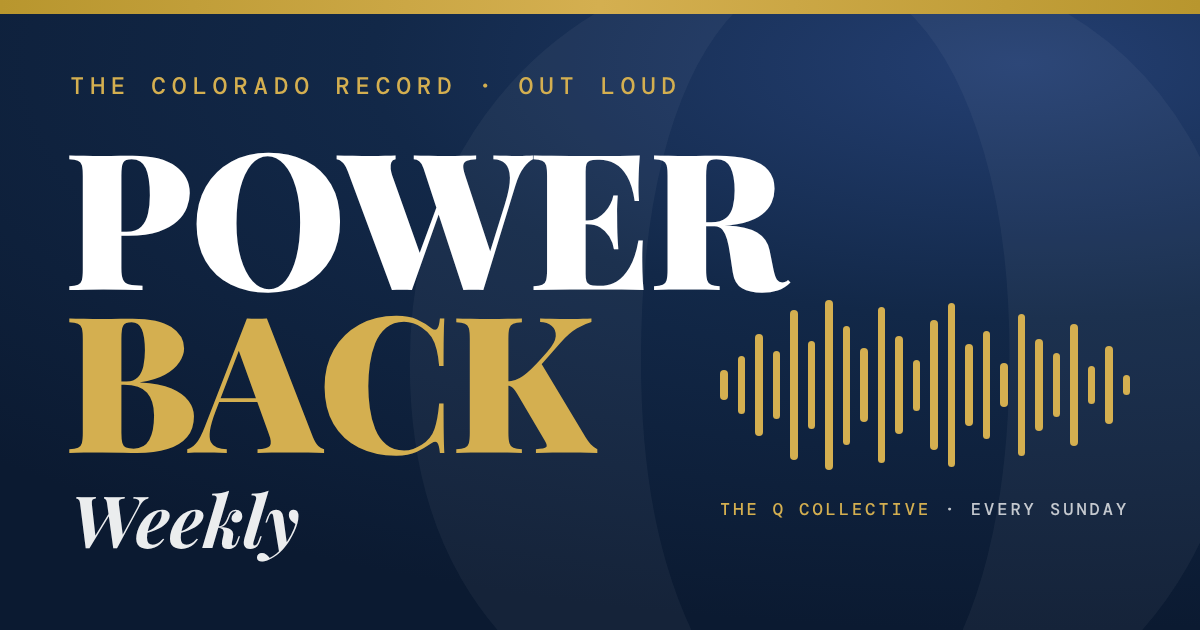
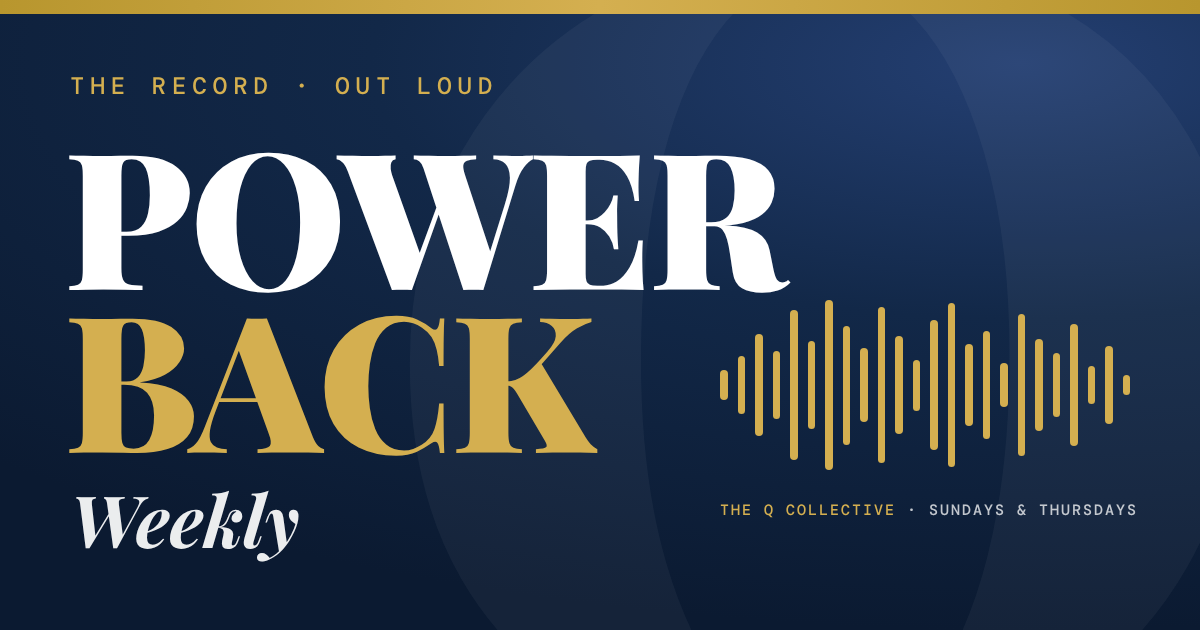
Power Back Weekly: new-episode emails, Be on the show (verified officials too), host section, Special Session / On the Record, 'the record' wording, new covers (Thursday art with Mav)
Claude-Session: https://claude.ai/code/session_016FBJNgCqkbCf93CrN5q3VF

Changed region(s): [[0.5858, 0.7841, 0.9558, 0.8143], [0.2158, 0.1206, 0.5858, 0.1508], [0.1233, 0.1206, 0.185, 0.1508]]

diff --git a/podcast.html b/podcast.html
@@ -1,11 +1,11 @@
 <!DOCTYPE html><html lang="en"><head>
 <meta charset="UTF-8"><meta name="viewport" content="width=device-width,initial-scale=1.0">
 <title>Power Back Weekly: the podcast | The Q Collective</title>
-<meta name="description" content="Power Back Weekly: the Colorado record, read out loud. What your lawmakers did this week, from the public record, in plain English. Free every Sunday from The Q Collective.">
+<meta name="description" content="Power Back Weekly: the record, read out loud. What your lawmakers did this week, from the public record, in plain English. Free every Sunday and Thursday from The Q Collective.">
 <meta property="og:type" content="website">
 <meta property="og:site_name" content="The Q Collective">
-<meta property="og:title" content="Power Back Weekly: the Colorado record, out loud">
-<meta property="og:description" content="What your lawmakers did this week, from the public record, in plain English. Free every Sunday.">
+<meta property="og:title" content="Power Back Weekly: the record, out loud">
+<meta property="og:description" content="What your lawmakers did this week, from the public record, in plain English. Free every Sunday and Thursday.">
 <meta property="og:url" content="https://theqcollective.org/podcast.html">
 <meta property="og:image" content="https://theqcollective.org/og/podcast.png">
 <meta property="og:image:width" content="1200">
@@ -65,6 +65,16 @@
   .mail{background:var(--navy-deep);color:#fff;border-radius:14px;padding:30px;display:flex;justify-content:space-between;align-items:center;gap:20px;flex-wrap:wrap;margin-top:56px}
   .mail h3{font-family:'Playfair Display',serif;font-size:26px;margin:0 0 4px}.mail p{margin:0;color:rgba(255,255,255,.75)}
   .copied{font-size:13px;color:var(--gold-light);margin-left:6px}
+  .host{display:grid;grid-template-columns:320px 1fr;gap:28px;align-items:center}.host img{width:100%;height:auto;border-radius:14px;display:block}.host h2{margin:2px 0 8px}.host p{margin:0;color:#333;line-height:1.6}
+  .gform{background:#fff;border:1px solid var(--border);border-radius:14px;padding:24px;display:grid;gap:14px;margin-top:16px}
+  .gform label{display:grid;gap:6px;font-weight:600;color:var(--navy-deep);font-size:15px}.gform small{font-weight:400;color:#666}
+  .gform input,.gform select,.gform textarea{font:inherit;font-weight:400;padding:11px 12px;border:1px solid var(--border);border-radius:10px;background:#fff;color:#111;width:100%;box-sizing:border-box}
+  .g2{display:grid;grid-template-columns:1fr 1fr;gap:14px}.hp{position:absolute;left:-9999px;width:1px;height:1px;opacity:0}
+  .gmsg{margin:0;font-weight:600;color:var(--navy-deep)}
+  .alerts{display:grid;grid-template-columns:1fr 1fr;gap:28px;align-items:center}.alerts .gform{margin-top:0}
+  .gform label.chk{display:flex;gap:10px;align-items:flex-start;font-weight:400;color:#333}.gform label.chk input{width:20px;height:20px;flex:none;margin-top:2px}
+  .offbox{max-width:560px;margin:0 auto 30px;background:#fff;border:1px solid var(--border);border-radius:14px;padding:24px;text-align:center}.gnote{margin:0;color:#555;font-size:14px}
+  @media(max-width:820px){.host,.alerts{grid-template-columns:1fr}.g2{grid-template-columns:1fr}.gform{padding:18px}}
   @media(max-width:820px){.pb-grid{grid-template-columns:1fr;gap:28px}.pb-cover{max-width:260px}.how{grid-template-columns:1fr}.pb-hero{padding:48px 18px}main{padding:36px 16px 56px}}
 </style>
 </head><body>
@@ -75,9 +85,11 @@
   <div>
     <div class="eyebrow">The Q Collective · Podcast</div>
     <h1>Power <span>Back</span> Weekly</h1>
-    <p class="pb-sub">The Colorado record, read out loud. Every Sunday: the bills that moved, the votes that counted, and whose Q Score changed and why. Straight from the public record, in plain English, in about ten minutes. Bonus episodes when something big moves.</p>
+    <p class="pb-sub">The record, read out loud. <b>Sundays:</b> the bills that moved, the votes that counted, and whose Q Score changed and why, straight from the public record in about ten minutes. <b>Thursdays:</b> our founder, in his own voice, on what it means and what you can do. Plus <b>Special Session</b> episodes when something big moves, and <b>On the Record</b> conversations with guests.</p>
     <div class="subs" id="follow">
       <a class="sbtn gold" href="#episodes">&#9654; Listen now</a>
+      <a class="sbtn" href="#alerts">Email me new episodes</a>
+      <a class="sbtn" href="#be-on-the-show">Be on the show</a>
     </div>
     <p class="soon" id="soon">Coming to Apple Podcasts, Spotify and YouTube. Until then, listen right here or follow the feed in any podcast app.</p>
   </div>
@@ -94,10 +106,45 @@
     <h2>How each episode is made</h2>
     <p class="lede">We'd rather tell you than have you wonder.</p>
     <div class="how">
-      <div><b>A real person opens it</b><p>Every episode starts with our founder, maveriQ B Jackson, in his own voice.</p></div>
-      <div><b>The record does the talking</b><p>The rest is read by an AI voice, word for word from our published data: Q Scores, bill histories and votes. No opinions on candidates or parties.</p></div>
+      <div><b>Sundays: the record does the talking</b><p>Our founder opens it; the rest is read by an AI voice, word for word from our published data: Q Scores, bill histories and votes. No opinions on candidates or parties.</p></div>
+      <div><b>Thursdays: a real person, all the way</b><p>maveriQ B Jackson, in his own voice, on what the week means. Never AI.</p></div>
       <div><b>Nothing to track you</b><p>The show lives on our own site. No ads, no ad network, and we don't follow who listens.</p></div>
     </div>
+  </section>
+
+  <section class="sec alerts" id="alerts">
+    <div><div class="eyebrow">Never miss one</div><h2>Get every new episode by email</h2>
+      <p class="lede">More than one a week: Sunday's record, Thursday with Mav, Special Session episodes when something big moves, and On the Record conversations with guests. One short email each time, with the link. Unsubscribe in one click.</p></div>
+    <form id="epForm" class="gform" novalidate>
+      <label>Your email<input name="email" type="email" required maxlength="254" autocomplete="email" placeholder="you@email.com"></label>
+      <label class="chk"><input type="checkbox" name="sunday" checked> Also send me the Sunday Update (the week's record, in writing)</label>
+      <input name="website" tabindex="-1" autocomplete="off" class="hp" aria-hidden="true">
+      <button class="sbtn gold" type="submit">Email me new episodes</button>
+      <p class="gmsg" id="epMsg" role="status"></p>
+    </form>
+  </section>
+
+  <section class="sec host">
+    <img src="founder.jpg" alt="maveriQ B Jackson with his dog in the Colorado foothills" width="1200" height="800" loading="lazy">
+    <div><div class="eyebrow">Your host</div><h2>maveriQ B Jackson</h2>
+      <p>Founder of The Q Collective. Six years as a project coordinator on federal work for the Department of Justice, the IRS, the White House and the U.S. Senate, and a 2026 candidate for the Colorado House. Now he reads the record so you don't have to. <a href="founder.html">More about Mav &rarr;</a></p></div>
+  </section>
+
+  <section class="sec guest" id="be-on-the-show">
+    <h2>Be on the show</h2>
+    <p class="lede">Lawmakers, candidates, advocates, experts and everyday Coloradans: tell us what you'd like to say. Any party, any side. We look for balance, and we read every request.</p>
+    <form id="guestForm" class="gform" novalidate>
+      <div class="g2"><label>Your name<input name="name" required maxlength="120" autocomplete="name"></label><label>Email<input name="email" type="email" required maxlength="200" autocomplete="email"></label></div>
+      <div class="g2"><label>You are
+        <select name="role" required><option value="legislator">A Colorado legislator</option><option value="official">Another elected official</option><option value="candidate">A candidate</option><option value="advocate">With an advocacy group or nonprofit</option><option value="expert">An expert or researcher</option><option value="resident" selected>A Colorado resident</option><option value="other">Something else</option></select></label>
+        <label>District, office or organization <small>(optional)</small><input name="affiliation" maxlength="160"></label></div>
+      <label>What would you like to talk about?<input name="topic" required maxlength="300" placeholder="A bill, a vote, an issue in your community&hellip;"></label>
+      <label>Anything else we should know? <small>(optional)</small><textarea name="why" rows="4" maxlength="2000"></textarea></label>
+      <input name="website" tabindex="-1" autocomplete="off" class="hp" aria-hidden="true">
+      <button class="sbtn gold" type="submit">Send my request</button>
+      <p class="gmsg" id="guestMsg" role="status"></p>
+      <p class="gnote">We reply to every request, usually within a week. Being a guest never changes anyone's Q Score: scores come from the public record only. Elected officials: <a href="account.html">verify your account</a> and your request shows up as verified.</p>
+    </form>
   </section>
 
   <div class="mail"><div><h3>Rather read it?</h3><p>The Sunday Update is the same week in your inbox, with every link. Free.</p></div><a class="sbtn gold" href="sunday.html">Get the Sunday Update</a></div>
@@ -110,7 +157,7 @@
   var FEED='https://theqcollective.org/podcast/feed.xml';
   function mins(s){s=s||0;var m=Math.max(1,Math.round(s/60));return m+' min';}
   function day(d){try{return new Date(d+'T12:00:00').toLocaleDateString('en-US',{month:'long',day:'numeric',year:'numeric'});}catch(e){return d;}}
-  var KIND={weekly:'Sunday recap',thursday:'Thursday with Mav',bonus:'Bonus',trailer:'Trailer'};
+  var KIND={weekly:'Sunday recap',thursday:'Thursday with Mav',bonus:'Special Session',guest:'On the Record',trailer:'Trailer'};
   fetch('podcast/episodes.json',{cache:'no-cache'}).then(function(r){return r.json();}).then(function(d){
     var L=d.links||{}, subs=document.getElementById("follow"), any=false;
     [['apple','Apple Podcasts'],['spotify','Spotify'],['youtube','YouTube']].forEach(function(x){ if(L[x[0]]){ any=true; subs.insertAdjacentHTML('beforeend','<a class="sbtn" href="'+esc(L[x[0]])+'" target="_blank" rel="noopener">'+x[1]+'</a>'); } });
@@ -125,6 +172,51 @@
     }).join('');
     if(location.hash){var t=document.getElementById(location.hash.slice(1)); if(t) t.scrollIntoView();}
   }).catch(function(){});
+})();
+</script>
+<script src="q-auth.js"></script>
+<script>
+/* Email me new episodes (and optionally the Sunday Update). Same list rules as the Sunday Update. */
+(function(){
+  var f=document.getElementById('epForm'), m=document.getElementById('epMsg'); if(!f) return;
+  f.addEventListener('submit',function(e){
+    e.preventDefault(); if(f.website.value) return;
+    var em=f.email.value.trim(); if(!/^[^@\s]+@[^@\s]+\.[^@\s]+$/.test(em)){m.textContent='Please enter a valid email.';return;}
+    m.textContent='Signing you up\u2026'; f.querySelector('button').disabled=true;
+    window.qcReady.then(function(qc){ if(!qc) throw 0; return qc.rpc('subscribe_episodes',{e:em,also_sunday:!!f.sunday.checked}); })
+      .then(function(r){ if(r&&r.error) throw r.error; var v=r&&r.data;
+        if(v==='invalid'){m.textContent='Please check your email address.';f.querySelector('button').disabled=false;return;}
+        m.textContent=v==='confirm'?'Almost there: check your inbox and tap the link to confirm.':'You\u2019re in. You\u2019ll get an email every time a new episode comes out.'; f.email.disabled=true; })
+      .catch(function(){ m.textContent='That didn\u2019t go through. Please try again.'; f.querySelector('button').disabled=false; });
+  });
+  // Turning episode emails off: nothing happens until a person presses the button (email scanners open links).
+  var q=new URLSearchParams(location.search);
+  if(q.get('do')==='episodes-off'&&q.get('token')){
+    var box=document.createElement('div'); box.className='offbox';
+    box.innerHTML='<h2 style="margin:0 0 8px">Stop new-episode emails?</h2><p>You\u2019ll stop getting an email each time Power Back Weekly has a new episode.</p><button class="sbtn gold" type="button">Yes, stop them</button><p class="gmsg"></p>';
+    document.querySelector('main').prepend(box);
+    box.querySelector('button').onclick=function(){ var b=this, msg=box.querySelector('.gmsg'); b.disabled=true;
+      window.qcReady.then(function(qc){ return qc.rpc('episodes_off',{t:q.get('token')}); }).then(function(r){ var v=r&&r.data;
+        msg.textContent=v==='ok'?'Done. No more new-episode emails. You can sign up again any time on this page.':'That link is no longer valid.'; })
+      .catch(function(){ msg.textContent='Something went wrong. Please try again.'; b.disabled=false; }); };
+    box.scrollIntoView();
+  }
+})();
+/* Be on the show: requests go straight to The Q Collective (nobody else can read them). */
+(function(){
+  var f=document.getElementById('guestForm'), m=document.getElementById('guestMsg'); if(!f) return;
+  f.addEventListener('submit',function(e){
+    e.preventDefault(); if(f.website.value) return;
+    var v={name:f.name.value.trim(),email:f.email.value.trim(),role:f.role.value,affiliation:f.affiliation.value.trim()||null,topic:f.topic.value.trim(),why:f.why.value.trim()||null};
+    if(v.name.length<2){m.textContent='Please add your name.';return;}
+    if(!/^[^@\s]+@[^@\s]+\.[^@\s]+$/.test(v.email)){m.textContent='Please check your email address.';return;}
+    if(v.topic.length<5){m.textContent='Tell us a little about what you want to talk about.';return;}
+    m.textContent='Sending\u2026'; f.querySelector('button').disabled=true;
+    window.qcReady.then(function(qc){ if(!qc) throw new Error('offline'); return qc.from('podcast_requests').insert(v); })
+      .then(function(r){ if(r&&r.error) throw r.error; f.reset(); m.textContent='Thank you. We got it, and we\u2019ll be in touch.'; })
+      .catch(function(){ m.textContent='That didn\u2019t go through. Please try again, or email team@theqcollective.org.'; })
+      .then(function(){ f.querySelector('button').disabled=false; });
+  });
 })();
 </script>
 <script src="q-config.js"></script><script src="q-chat.js"></script>

diff --git a/account.html b/account.html
@@ -579,6 +579,15 @@
       <div class="acct-note">Responses are reviewed before publishing, and they <b>do not affect your Q Score</b> &mdash; scores are calculated from the public record only.</div>
     </div>
 
+    <div id="pbwCard" class="acct-card" style="display:none">
+      <h3>Be on Power Back Weekly</h3>
+      <p>Want to say it in your own voice? Ask to come on our podcast. Your request comes to us marked as a verified official. Being on the show never changes a Q Score. <a href="podcast.html">About the show &rarr;</a></p>
+      <input id="pbwTopic" class="acct-input" maxlength="300" placeholder="What would you like to talk about?">
+      <textarea id="pbwWhy" class="acct-ta" maxlength="2000" placeholder="Anything else we should know (optional)"></textarea>
+      <button id="pbwBtn" class="acct-btn">Request to be on the show</button>
+      <p id="pbwMsg" class="acct-msg"></p>
+    </div>
+
     <div id="subsCard" class="acct-card" style="display:none">
       <h3>Your submissions</h3>
       <div id="subsList"></div>
@@ -665,6 +674,7 @@ var tries=0;(function wait(){if(!window.qAuth)return;qAuth.user().then(function(
           if(PROF.official_status==='verified'){
             box.innerHTML='<div class="ok-box">\u2713 <b>Verified official.</b> You can respond to your record below.</div>';
             document.getElementById('respondCard').style.display='block';
+            document.getElementById('pbwCard').style.display='block';
             fetch('data/CO_bills.json').then(function(r){return r.json();}).then(function(d){
               var bl=(d&&(d.bills||d))||[]; var arr=Array.isArray(bl)?bl:Object.keys(bl).map(function(k){return bl[k];});
               document.getElementById('billList').innerHTML=arr.slice(0,400).map(function(x){return '<option value="'+esc(x.number||'')+'">'+esc(String(x.title||'').slice(0,60))+'</option>';}).join('');
@@ -694,6 +704,16 @@ var tries=0;(function wait(){if(!window.qAuth)return;qAuth.user().then(function(
     });
     document.getElementById('acctOutBtn').addEventListener('click',function(){qc.auth.signOut();});
 
+    document.getElementById('pbwBtn').addEventListener('click',function(){
+      var m=document.getElementById('pbwMsg'), topic=(document.getElementById('pbwTopic').value||'').trim(), why=(document.getElementById('pbwWhy').value||'').trim();
+      if(topic.length<5){m.textContent='Tell us a little about what you want to talk about.';return;}
+      if(!PROF||PROF.official_status!=='verified'){m.textContent='Your account is not verified yet.';return;}
+      var nm=(ME.user_metadata&&ME.user_metadata.claimed_person_name)||(ME.email||'').split('@')[0];
+      m.textContent='Sending\u2026';
+      qc.from('podcast_requests').insert({name:nm,email:ME.email,role:'legislator',affiliation:null,topic:topic,why:why||null,user_id:ME.id,person_id:String(PROF.claimed_person_id||''),verified:true})
+        .then(function(res){ if(res&&res.error){m.textContent='Error: '+res.error.message;return;} m.textContent='Sent. We\u2019ll be in touch to set a time.'; document.getElementById('pbwTopic').value=''; document.getElementById('pbwWhy').value=''; })
+        .catch(function(){m.textContent='Something went wrong. Please try again.';});
+    });
     document.getElementById('respBtn').addEventListener('click',function(){
       var m=document.getElementById('respMsg'); var kind=document.getElementById('respKind').value;
       var body=(document.getElementById('respBody').value||'').trim();

diff --git a/site-chrome.js b/site-chrome.js
@@ -75,7 +75,7 @@
       '@media(prefers-reduced-motion:reduce){.q-pod-track{animation:none;display:block;text-align:center;white-space:normal;padding:10px 14px}.q-pod-item:not(:first-child){display:none}.q-pod-dot{animation:none}}'+
       '@media(max-width:600px){.q-pod{font-size:11.5px;letter-spacing:1.2px}}';
     document.head.appendChild(css);
-    var one='<span class="q-pod-item"><span class="q-pod-dot" aria-hidden="true"></span><b>New podcast</b> Power Back Weekly &middot; the Colorado record, read out loud every Sunday &middot; <u>Listen now &rarr;</u></span>';
+    var one='<span class="q-pod-item"><span class="q-pod-dot" aria-hidden="true"></span><b>New podcast</b> Power Back Weekly &middot; the record, read out loud every Sunday and Thursday &middot; <u>Listen now &rarr;</u></span>';
     var a=document.createElement('a'); a.className='q-pod'; a.href='podcast.html';
     a.setAttribute('aria-label','New podcast: Power Back Weekly. Listen now.');
     a.innerHTML='<span class="q-pod-track">'+one+one+one+one+one+one+'</span>';

diff --git a/podcast_lib.py b/podcast_lib.py
@@ -38,12 +38,14 @@ SHOW = {
     "language": "en-us",
     "category": ("Government", None),
     "category2": ("News", "Politics"),
-    "summary": ("The Colorado record, read out loud. Every Sunday, Power Back Weekly walks through what your "
+    "summary": ("The record, read out loud. Every Sunday, Power Back Weekly walks through what your "
                 "lawmakers actually did that week: the votes, the bills that moved, and whose record changed, "
-                "straight from the public record and in plain English. Bonus episodes drop when something big moves. "
+                "straight from the public record and in plain English. Every Thursday, founder maveriQ B Jackson, "
+                "in his own voice, on what it means and what you can do about it. Special Session episodes drop when "
+                "something big moves, and On the Record brings lawmakers and Coloradans on the show. "
                 "From The Q Collective, a nonpartisan, citizen-powered accountability project. "
-                "Each episode opens with founder maveriQ B Jackson in his own voice; the rest is read by an "
-                "AI voice from our published data, and every fact links back to the record at theqcollective.org."),
+                "Sunday episodes open with Mav and are read by an AI voice from our published data; "
+                "every fact links back to the record at theqcollective.org."),
     "page": f"{SITE}/podcast.html",
     "cover": f"{SITE}/podcast/cover.jpg",
 }
@@ -162,7 +164,7 @@ def build_feed(d):
       <pubDate>{format_datetime(when)}</pubDate>
       <enclosure url="{_x(SITE + '/' + e['audio'])}" length="{e['bytes']}" type="audio/mpeg"/>
       <itunes:duration>{dur // 60}:{dur % 60:02d}</itunes:duration>
-      <itunes:episodeType>{'trailer' if e['type'] == 'trailer' else 'bonus' if e['type'] == 'bonus' else 'full'}</itunes:episodeType>
+      <itunes:episodeType>{'trailer' if e['type'] == 'trailer' else 'bonus' if e['type'] == 'bonus' else 'full'}</itunes:episodeType>{chr(10) + '      <itunes:image href="' + _x(SITE + '/podcast/cover-thursday.jpg') + '"/>' if e['type'] in ('thursday', 'trailer') else ''}
       <itunes:explicit>false</itunes:explicit>
     </item>""")
     items.reverse()
@@ -223,7 +225,7 @@ def _paras(script):
 def post_html(e):
     short, long = _when(e)
     url = f"{SITE}/{NOTES_DIR}/pbw-{e['id']}.html"
-    kind = {"weekly": "Sunday recap", "thursday": "Thursday with Mav", "bonus": "Bonus episode", "trailer": "Trailer"}.get(e["type"], "Episode")
+    kind = {"weekly": "Sunday recap", "thursday": "Thursday with Mav", "bonus": "Special Session", "guest": "On the Record", "trailer": "Trailer"}.get(e["type"], "Episode")
     mins = max(1, round((e.get("seconds") or 60) / 60))
     return f"""<!DOCTYPE html><html lang="en"><head>
 <meta charset="UTF-8"><meta name="viewport" content="width=device-width,initial-scale=1.0">
@@ -316,3 +318,58 @@ def build_posts(d):
 if __name__ == "__main__":
     n = build_feed(load())
     print(f"feed rebuilt: {n} episodes")
+
+
+# --------------------------------------------------------------------------
+# New-episode emails. People who signed up on the podcast page ("email me every new episode")
+# get a short note each time one goes out. Needs SUPABASE_URL, SUPABASE_SERVICE_KEY, RESEND_API_KEY.
+# only_episode_only=True (Sunday episodes): skip people who already get the Sunday Update, which
+# has the same episode's Listen button in it.
+# --------------------------------------------------------------------------
+def email_new_episode(e, only_episode_only=False):
+    import urllib.parse
+    import urllib.request
+    url = (os.environ.get("SUPABASE_URL") or "").rstrip("/")
+    key = os.environ.get("SUPABASE_SERVICE_KEY") or ""
+    rk = os.environ.get("RESEND_API_KEY") or ""
+    if not (url and key and rk):
+        print("[episode-email] not set up (Supabase or Resend secret missing); skipped", flush=True)
+        return 0
+    q = "sunday_subscribers?confirmed=eq.true&unsubscribed=eq.false&episodes=eq.true&select=email,token"
+    if only_episode_only:
+        q += "&sunday=eq.false"
+    req = urllib.request.Request(url + "/rest/v1/" + q, headers={"apikey": key, "Authorization": "Bearer " + key, "User-Agent": "QCollective-podcast/1.0"})
+    try:
+        with urllib.request.urlopen(req, timeout=30) as r:
+            subs = json.loads(r.read())
+    except Exception as ex:
+        print(f"[episode-email] couldn't read the list: {ex}", flush=True)
+        return 0
+    if not subs:
+        return 0
+    kind = {"weekly": "Sunday recap", "thursday": "Thursday with Mav", "bonus": "Special Session", "guest": "On the Record", "trailer": "Trailer"}.get(e.get("type") or e.get("kind"), "New episode")
+    link = f"{SITE}/podcast.html#{e['id']}"
+    mins = max(1, round((e.get("seconds") or 0) / 60))
+    sender = os.environ.get("SEND_FROM") or "The Q Collective <noreply@auth.theqcollective.org>"
+    def one(s):
+        off = f"{SITE}/podcast.html?do=episodes-off&token={urllib.parse.quote(s['token'])}"
+        h = (f"<div style=\"background:#f4f1ea;padding:24px 12px;font-family:Georgia,serif\"><div style=\"max-width:560px;margin:0 auto;background:#fff;border-radius:12px;overflow:hidden;border:1px solid #e6dfcf\">"
+             f"<div style=\"background:#0b1a31;padding:22px 26px;color:#fff\"><div style=\"font:600 12px/1 monospace;letter-spacing:.18em;color:#D4AF50\">POWER BACK WEEKLY &middot; {html.escape(kind.upper())}</div>"
+             f"<div style=\"font:700 26px/1.25 Georgia,serif;margin-top:10px\">{html.escape(e['title'])}</div></div>"
+             f"<div style=\"padding:22px 26px;color:#222;font-size:16px;line-height:1.6\"><p style=\"margin:0 0 16px\">{html.escape(e.get('summary') or '')}</p>"
+             f"<p style=\"margin:0 0 18px\"><a href=\"{link}\" style=\"display:inline-block;background:#D4AF50;color:#0b1a31;text-decoration:none;font:700 16px Arial,sans-serif;padding:12px 20px;border-radius:8px\">&#9654; Listen ({mins} min)</a></p>"
+             f"<p style=\"margin:0;font-size:13px;color:#777;font-family:Arial,sans-serif\">You asked for an email every time Power Back Weekly has a new episode. <a href=\"{off}\" style=\"color:#777\">Stop these emails</a>.</p></div></div></div>")
+        t = f"{kind}: {e['title']}\n\n{e.get('summary') or ''}\n\nListen ({mins} min): {link}\n\nStop these emails: {off}\n"
+        return {"from": sender, "to": [s["email"]], "reply_to": "team@theqcollective.org", "subject": f"New on Power Back Weekly: {e['title']}", "html": h, "text": t,
+                "headers": {"List-Unsubscribe": f"<{off}>", "List-Unsubscribe-Post": "List-Unsubscribe=One-Click"}}
+    sent = 0
+    for i in range(0, len(subs), 100):
+        batch = [one(s) for s in subs[i:i + 100]]
+        r = urllib.request.Request("https://api.resend.com/emails/batch", method="POST", data=json.dumps(batch).encode(),
+                                   headers={"Authorization": "Bearer " + rk, "Content-Type": "application/json", "User-Agent": "QCollective-podcast/1.0"})
+        try:
+            urllib.request.urlopen(r, timeout=60).read(); sent += len(batch)
+        except Exception as ex:
+            print(f"[episode-email] batch failed: {ex}", flush=True)
+    print(f"[episode-email] {sent} sent for {e['id']}", flush=True)
+    return sent

diff --git a/send_sunday_update.py b/send_sunday_update.py
@@ -743,13 +743,22 @@ def send_confirmations():
     get a welcome. People the database is holding for confirmation get the
     confirmation email."""
     pending = sb("sunday_subscribers?confirm_sent=eq.false&unsubscribed=eq.false"
-                 "&select=id,email,token,confirmed") or []
+                 "&select=id,email,token,confirmed,sunday,episodes") or []
     if not isinstance(pending, list):
         log("couldn't read the subscriber list (is Supabase paused?)")
         return
     welcomed = confirms = 0
     for s in pending:
-        if s.get("confirmed"):
+        if s.get("confirmed") and s.get("sunday") is False:
+            # Signed up on the podcast page for new-episode emails only.
+            off = f"{SITE}/podcast.html?do=episodes-off&token={urllib.parse.quote(s['token'])}"
+            h = _shell(f"""<p>You're in. Every time Power Back Weekly has a new episode, we'll send you one short email with the link.</p>
+<p>Sundays: the week's record. Thursdays: our founder, in his own voice. Plus bonus episodes when something big moves.</p>
+<p><a href="{SITE}/podcast.html">Listen to the latest &rarr;</a></p>
+<p style="font-size:13px;color:#777">Changed your mind? <a href="{off}" style="color:#777">Stop these emails</a>.</p>""")
+            t = f"You're in. Every time Power Back Weekly has a new episode, we'll email you the link.\n\nListen: {SITE}/podcast.html\n\nStop these emails: {off}\n"
+            ok = send_email(s["email"], "You're on the list for Power Back Weekly", h, t)
+        elif s.get("confirmed"):
             h, t = welcome_email(s["token"])
             ok = send_email(s["email"], WELCOME_SUBJECT, h, t, token=s["token"])
         else:
@@ -832,7 +841,7 @@ def run_recap(test=False):
         log(f"test recap to {TEST_TO}: {'sent' if ok else 'FAILED'}")
         return ok
 
-    subs = sb("sunday_subscribers?confirmed=eq.true&unsubscribed=eq.false&select=email,token") or []
+    subs = sb("sunday_subscribers?confirmed=eq.true&unsubscribed=eq.false&sunday=eq.true&select=email,token") or []
     if not isinstance(subs, list):
         log("couldn't read the subscriber list; recap NOT sent, state NOT saved.")
         return False
@@ -870,6 +879,9 @@ def run_recap(test=False):
                 script=audio_script(shown, sections))
             podcast_lib.save(pod)
             log("podcast: this week's episode is in the Power Back Weekly feed.")
+            ep = next((x for x in pod["episodes"] if x["id"] == f"weekly-{shown.isoformat()}"), None)
+            if ep:
+                podcast_lib.email_new_episode(ep, only_episode_only=True)  # Sunday Update readers already have it
         except Exception as e:
             log(f"podcast: couldn't add this week's episode ({e}); the email still went out.")
     if read_note() and sent:

diff --git a/podcast_bonus.py b/podcast_bonus.py
@@ -39,7 +39,7 @@ DRAFTS = os.path.join(podcast_lib.DIR, "drafts")
 EPDIR = os.path.join(podcast_lib.DIR, "episodes")
 
 TRAILER = (
-    "Power Back Weekly is the Colorado record, read out loud. "
+    "Power Back Weekly is the record, read out loud. "
     "Every Sunday we walk through what your lawmakers actually did that week: the bills that moved, the votes that counted, "
     "and whose Q Score went up or down, and why. No spin and no sides. Just the public record, in plain English, in about ten minutes. "
     "When something big moves in between, like a bill heading to the governor or a change in the law that touches your paycheck, "
@@ -198,6 +198,7 @@ def publish():
                             summary=meta["summary"], audio_path=final, script=meta.get("script", ""))
     podcast_lib.save(pod)
     log(f"published {meta['id']} to the feed")
+    podcast_lib.email_new_episode({"id": meta["id"], "type": meta["type"], "title": meta["title"], "summary": meta["summary"], "seconds": podcast_lib.seconds(final)})
     print(f"::notice title=Published::{meta['title']} is in the Power Back Weekly feed.", flush=True)
 
 

diff --git a/podcast_thursday.py b/podcast_thursday.py
@@ -63,6 +63,7 @@ def publish_one(d, date, kind_hint=None):
     P.save(d)
     secs = P.seconds(out)
     log(f"published {eid}: {ep['title']} ({secs // 60}:{secs % 60:02d})")
+    P.email_new_episode({"id": eid, "type": kind, "title": ep["title"], "summary": ep.get("summary") or "", "seconds": secs})
     if RESEND_KEY:
         html = (f"<p><b>{ep['title']}</b> is live on Power Back Weekly ({secs // 60} min).</p>"
                 f"<p><a href='{P.SITE}/podcast.html#{eid}'>Podcast page</a> · <a href='{P.SITE}/notes/pbw-{eid}.html'>Q Notes post</a></p>"
